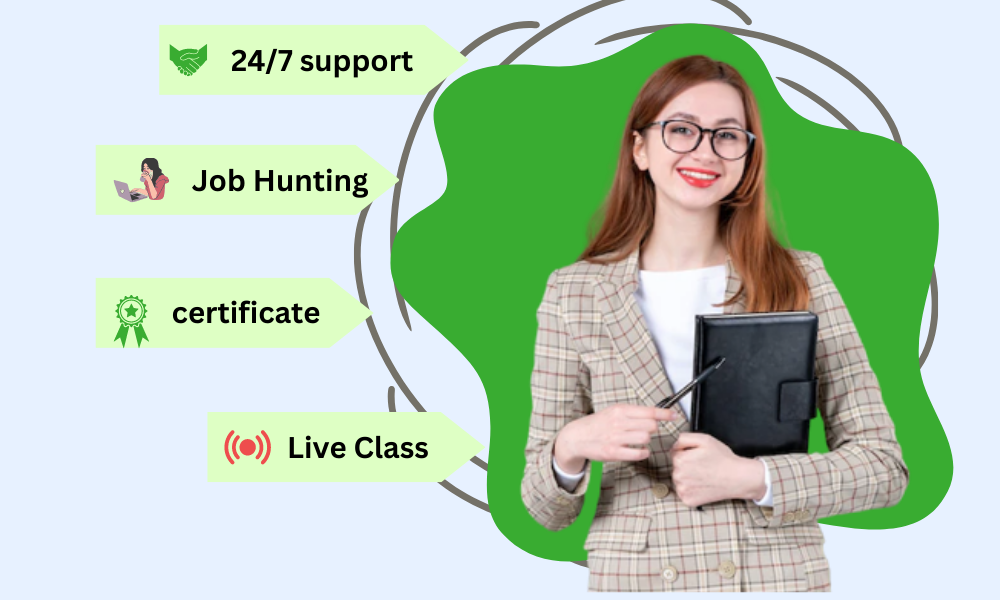
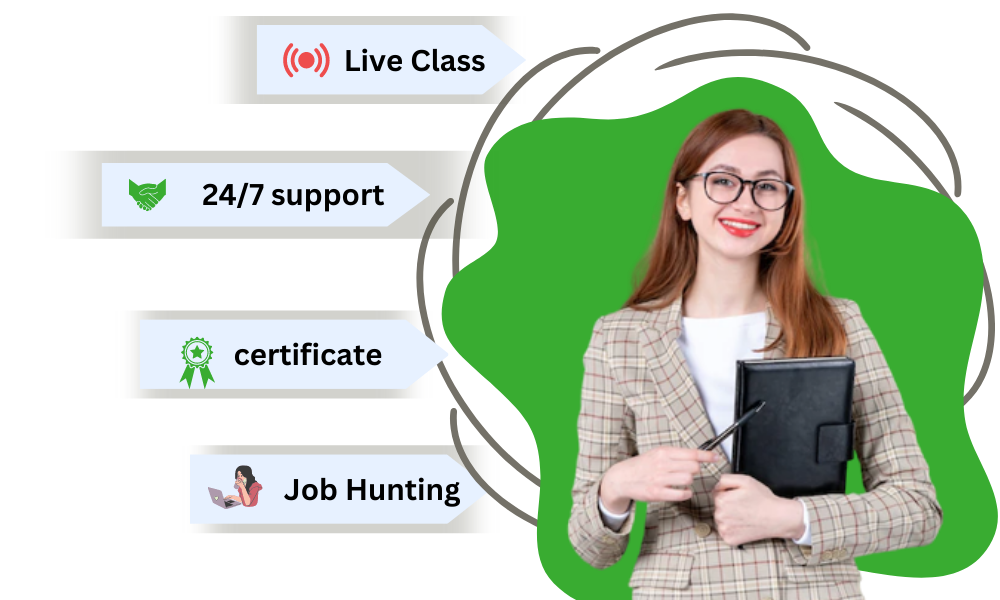
done design

diff --git a/client/src/Pages/Home/Home/Tracks.tsx b/client/src/Pages/Home/Home/Tracks.tsx
@@ -14,10 +14,10 @@ const Tracks = () => {
     },[])
 
     return (
-        <div className="py-20 bg-[#f0ffe4] ">
+        <div className="py-20  ">
             <div className="container">
                 <div className="text-center">
-                    <button className=" border-primary bg-shade text-redtype border-2 text-center px-3 rounded-full font-bold">dream categories</button>
+                    <button className=" border-primary bg-bgSecondary text-redtype border-2 text-center px-3 rounded-full font-bold">dream categories</button>
                    <div className="max-w-[600px] mx-auto">
                    <h2 className="mt-8 text-4xl font-bold ">Starting the journey of self-study to improve oneself</h2>
                    <p className="mt-5 text-text text-lg font-medium">Set your goal, start career growth now</p>

diff --git a/client/src/Pages/Home/Home/Hero.tsx b/client/src/Pages/Home/Home/Hero.tsx
@@ -3,8 +3,8 @@ import banner from '../../../assets/images/hero.png';
 
 const Hero = () => {
     return (
-        <div className="container mx-auto py-20">
-           <div className="grid grid-cols-2">
+        <div className=" py-20 bg-[#DEFFC4] min-h-[600px]">
+           <div className="grid grid-cols-2 container mx-auto">
             <div className="content flex justify-center flex-col">
                <div>
                  <h2 className='text-5xl font-bold text-text leading-tight mb-3'>Elevate your  Skills and</h2>
